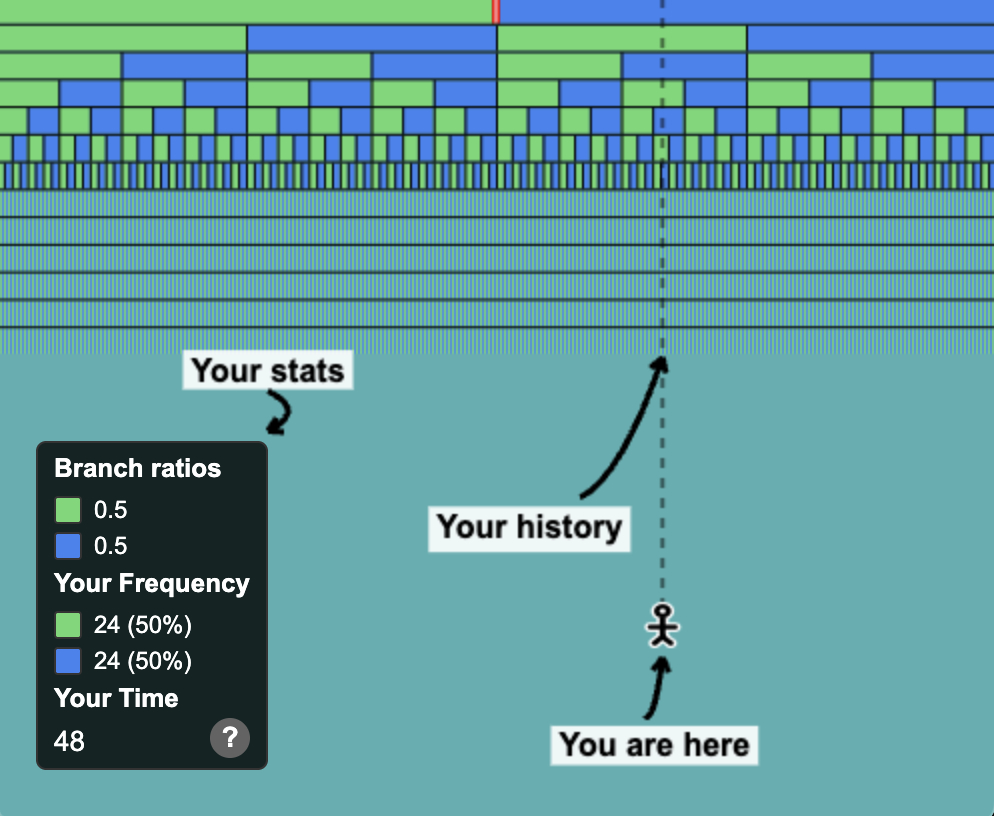
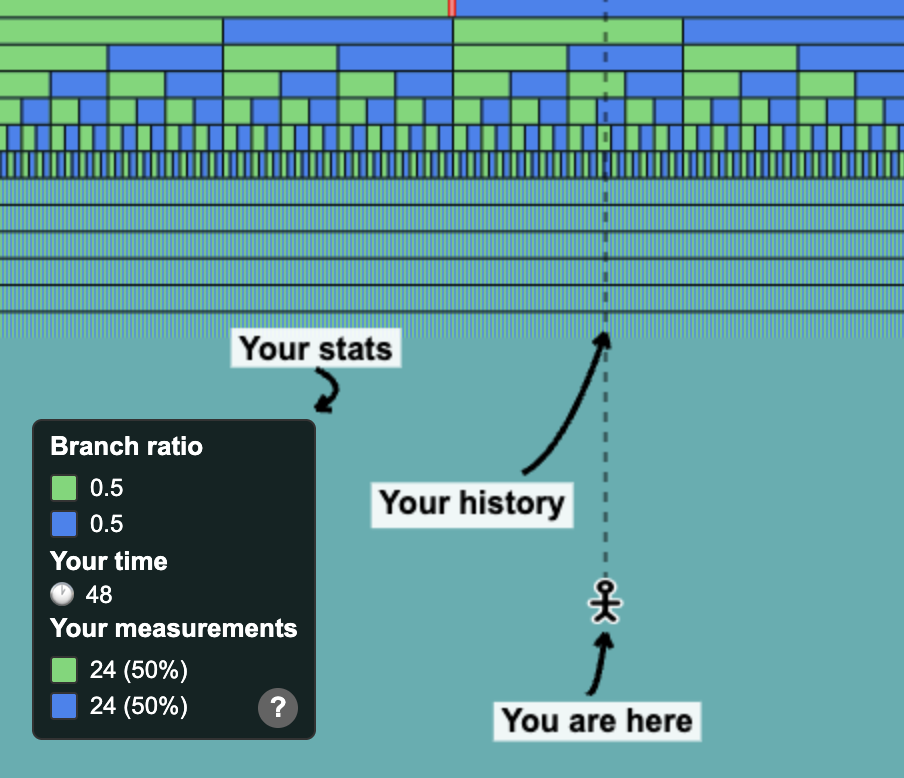
your time

diff --git a/index.html b/index.html
@@ -196,8 +196,10 @@ body, html {
 
 .stats-container h3 {
     margin: 0 0 6px 0;
-    color: white;
     font-size: 13px;
+}
+.stats-container {
+    color: white;
 }
 
 .help-link {
@@ -260,6 +262,31 @@ body, html {
     color: white;
 }
 
+.stats-cursor-time-item {
+    display: flex;
+    align-items: center;
+}
+
+.stats-cursor-time-item .legend-color {
+    display: flex;
+    align-items: center;
+    justify-content: center;
+    font-size: 12px;
+}
+
+#stats-cursor-time {
+    font-family: Arial, sans-serif;
+    font-size: 12px;
+    color: white;
+}
+
+.stats-cursor-time-container {
+    display: flex;
+    align-items: center;
+    min-height: 1.5em; /* Reduce height */
+    margin-top: -0.5em; /* Reduce space from h3 above */
+}
+
 .help-container {
     position: absolute;
     top: 50%;
@@ -303,9 +330,16 @@ body, html {
 <body>
     <div class="popup-container" style="display: block">
       <div id="stats-container" class="stats-container" style="margin-left: 20px;">
-        <h3>Branch ratios</h3>
+        <h3>Branch ratio</h3>
         <div id="stats-branch-ratio-items"></div>
-        <h3>Your Frequency</h3>
+        <h3>Your time</h3>
+        <div class="stats-cursor-time-container">
+          <div class="stats-cursor-time-item">
+            <div class="legend-color" style="background-color: transparent; border: none;">🕐</div>
+            <div id="stats-cursor-time">48</div>
+          </div>
+        </div>
+        <h3>Your measurements</h3>
         <div id="stats-frequency-items">
             <div class="stats-frequency-item">
                 <div class="legend-color" style="background-color: oklch(0.7933 0.179 145.62);"></div><span
@@ -315,10 +349,6 @@ body, html {
             <div class="legend-color" style="background-color: oklch(0.6239 0.181 258.33);"></div><span
                 class="frequency-label">24 (50%)</span>
             </div>
-        </div>
-        <h3>Your Time</h3>
-        <div style="color: white; font-family: Arial, sans-serif; font-size: 14px;">
-          <span id="stats-cursor-time">48</span>
         </div>
         <a href="https://github.com/notfed/mw.identity.pub" class="help-link" target="_blank">?</a>
       </div>

diff --git a/README.md b/README.md
@@ -12,7 +12,7 @@ See [http://mw.identity.pub/](http://mw.identity.pub/).
 
 The [many-worlds interpretation of quantum mechanics](https://en.wikipedia.org/wiki/Many-worlds_interpretation) says that the universe is, and only is, a vector in Hilbert space evolving deterministically according to the [Schrödinger equation](https://en.wikipedia.org/wiki/Schr%C3%B6dinger_equation).
 
-So why does quantum mechanics give us random numbers, e.g. with a [quantum coin flip](https://en.wikipedia.org/wiki/Quantum_coin_flipping)? Well, to put it simply, many-worlds says that this "randomness" is an illusion, and that actually, for each coin flip, the world branches into two worlds: one where you see a "heads", and one where you see a "tails".
+So why does quantum mechanics give us random numbers, e.g. with a [quantum coin flip](https://en.wikipedia.org/wiki/Quantum_coin_flipping)? Well, to put it simply, many-worlds says that this "randomness" is an illusion, and that actually, for each coin flip, the world branches into two worlds: one where you measure a "heads", and one where you measure a "tails".
 
 ### What am I looking at?
 
@@ -21,8 +21,9 @@ So why does quantum mechanics give us random numbers, e.g. with a [quantum coin 
     - A green world, representing heads
     - A blue world, representing tails
 - You are `𖨆`. (Your cursor.)
-- The vertical line, or "history", represents the sequence of coin flips you've observed
-- The "stats" area averages your sequence of coin flips
+- The vertical line represents the sequence of coin flips you've measured
+- "Your time" shows how many coin flips you've measured
+- "Your measurements" shows the counts and averages of the coin flips you've measured
 
 ### Advanced controls
 
